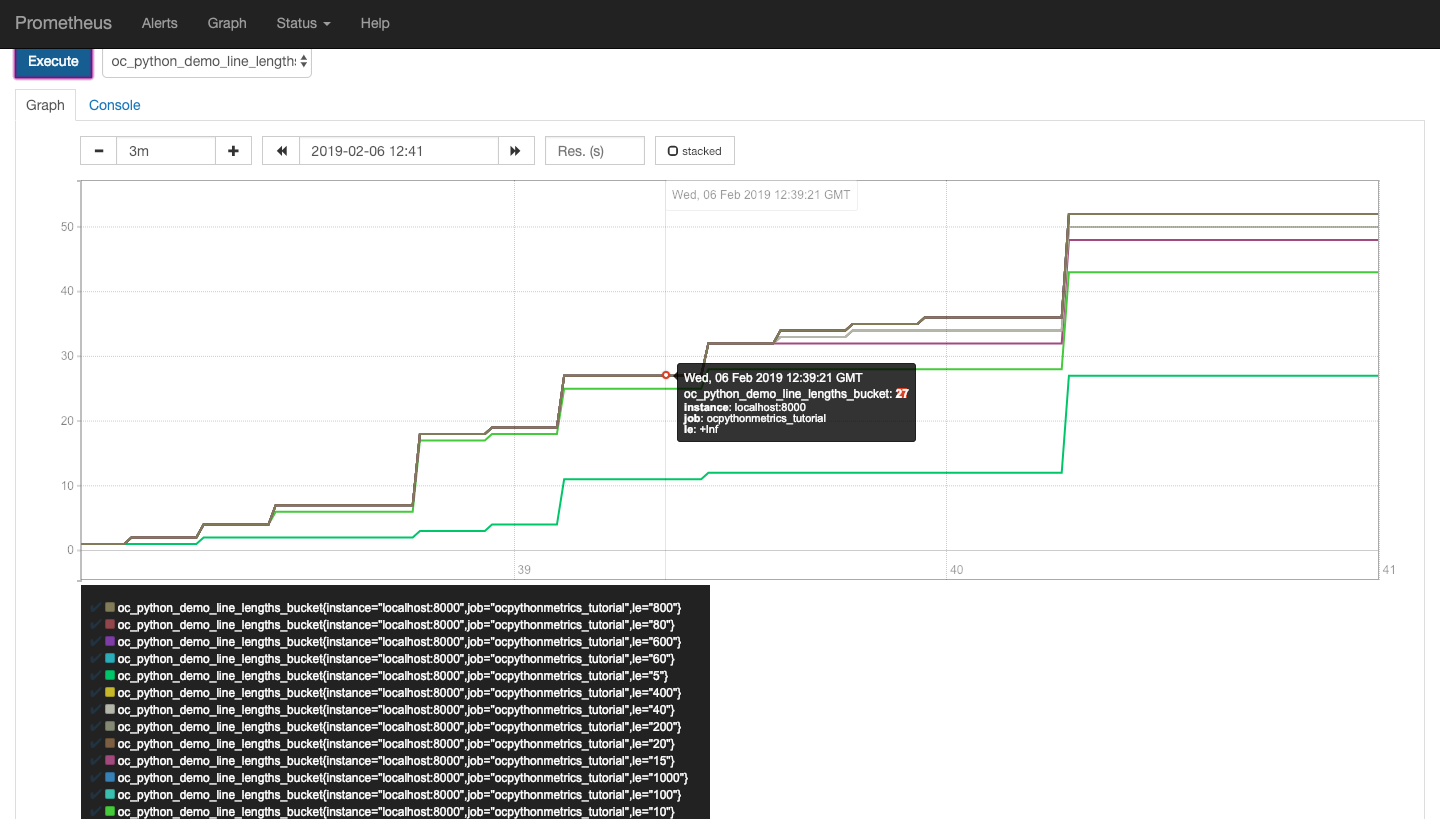
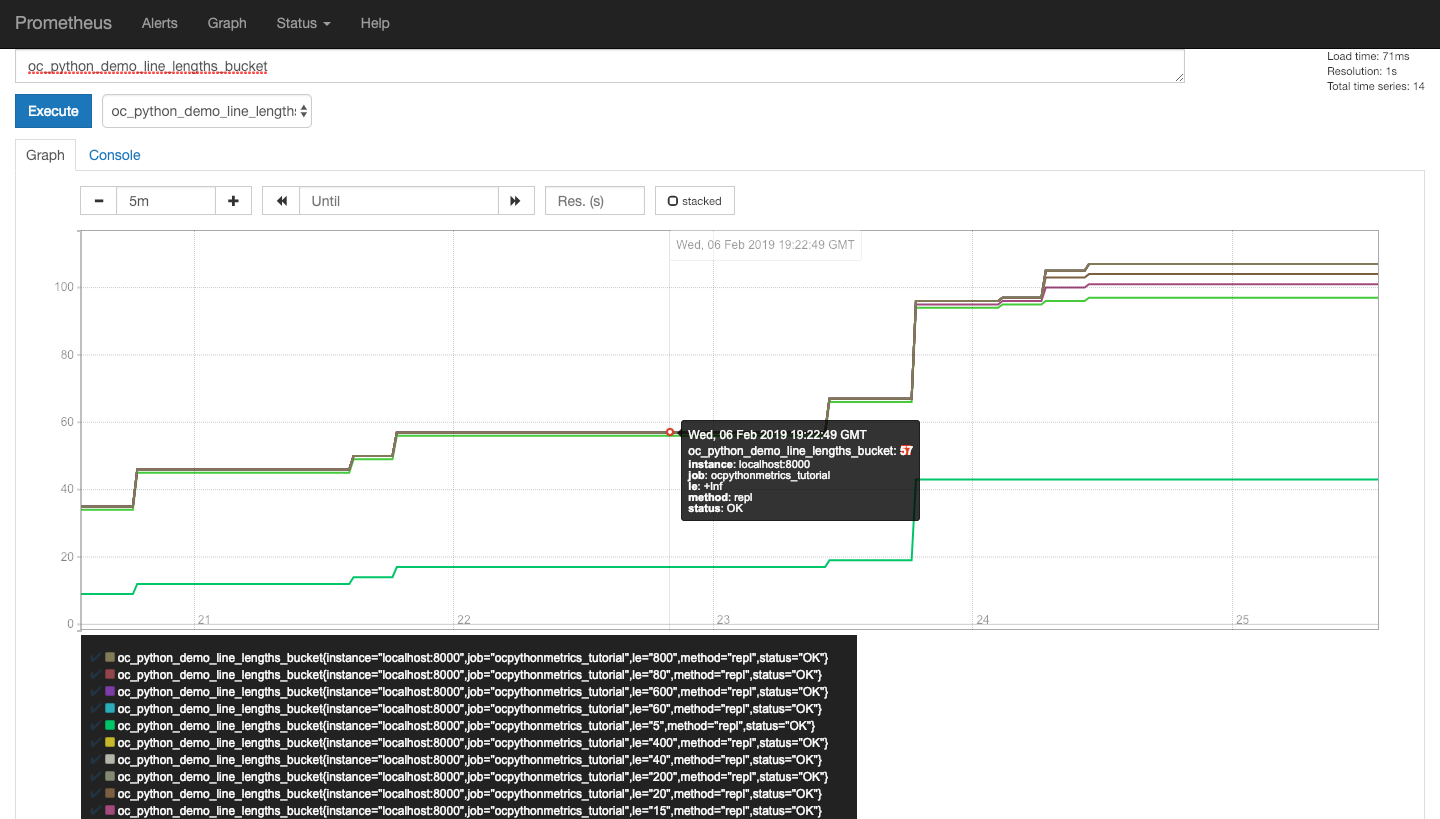
Update screenshots to display missing keys

diff --git a/content/quickstart/python/metrics.md b/content/quickstart/python/metrics.md
@@ -209,12 +209,12 @@ latency_view = view_module.View("demo_latency", "The distribution of the latenci
     aggregation_module.DistributionAggregation([0, 25, 50, 75, 100, 200, 400, 600, 800, 1000, 2000, 4000, 6000]))
 
 line_count_view = view_module.View("demo_lines_in", "The number of lines from standard input",
-    [],
+    [key_method, key_status, key_error],
     m_line_lengths,
     aggregation_module.CountAggregation())
 
 line_length_view = view_module.View("demo_line_lengths", "Groups the lengths of keys in buckets",
-    [],
+    [key_method, key_status, key_error],
     m_line_lengths,
     # Lengths: [>=0B, >=5B, >=10B, >=15B, >=20B, >=40B, >=60B, >=80, >=100B, >=200B, >=400, >=600, >=800, >=1000]
     aggregation_module.DistributionAggregation([0, 5, 10, 15, 20, 40, 60, 80, 100, 200, 400, 600, 800, 1000]))
@@ -443,12 +443,12 @@ latency_view = view_module.View("demo_latency", "The distribution of the latenci
     aggregation_module.DistributionAggregation([0, 25, 50, 75, 100, 200, 400, 600, 800, 1000, 2000, 4000, 6000]))
 
 line_count_view = view_module.View("demo_lines_in", "The number of lines from standard input",
-    [],
+    [key_method, key_status, key_error],
     m_line_lengths,
     aggregation_module.CountAggregation())
 
 line_length_view = view_module.View("demo_line_lengths", "Groups the lengths of keys in buckets",
-    [],
+    [key_method, key_status, key_error],
     m_line_lengths,
     # Lengths: [>=0B, >=5B, >=10B, >=15B, >=20B, >=40B, >=60B, >=80, >=100B, >=200B, >=400, >=600, >=800, >=1000]
     aggregation_module.DistributionAggregation([0, 5, 10, 15, 20, 40, 60, 80, 100, 200, 400, 600, 800, 1000]))
